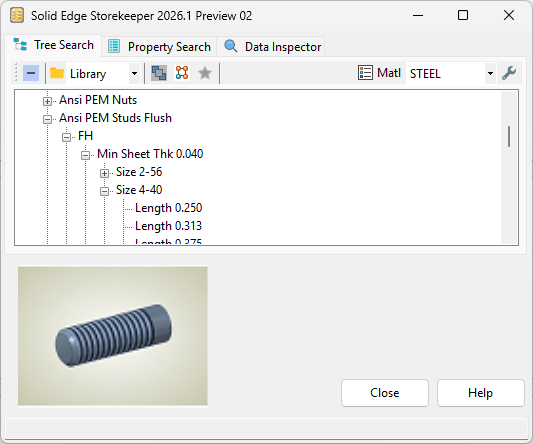
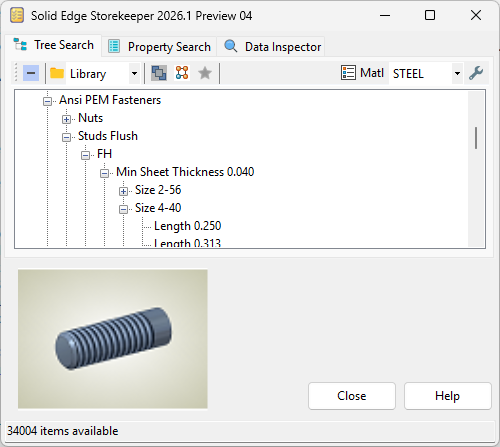
Documentation

diff --git a/Readme.md b/Readme.md
@@ -175,7 +175,7 @@ The spreadsheet contains the variables required for each size of each type of pa
 - **TEMPLATE DIRECTORY**  
 The templates are SE part files that have variable-table-driven geometry to create new parts of a given type.  By default they are stored in the `Preferences\TemplatesSE2024` folder.
 
-  As noted at the outset, the original templates were created in SE2024.  They will only work if you're using that version or newer.  An alternative set of templates, created with SE2019, was generously contributed by **@TeeVar**.  To use them, change the template directory to `Preferences\TemplatesSE2019`.  
+  As noted at the outset, the original templates were created in SE2024.  They will only work if you're using that version or newer.  (**UPDATE 20260607:** It is now SE2025.)  An alternative set of templates, created with SE2019, was generously contributed by **@TeeVar**.  To use them, change the template directory to `Preferences\TemplatesSE2019`.  
 
   Even if you have a newer version of Solid Edge, you may still want to use the SE2019 templates.  Unlike me, **@TeeVar** is an ISO native speaker.  If you work with that standard, his naming conventions will probably be more familiar and useful to you.
 
@@ -190,7 +190,9 @@ The material table is usually your normal SE material table.  However, for a qui
 
 - **OPTIONS**
   - `Read the Excel file each time the program is launched`  
-	Internally, the Excel file is parsed and saved in `*.xml` format.  If you haven't changed the Excel file, this is an unnecessary step.  Clearing this option tells the program to use the `*.xml` file it created previously.
+	Internally, the Excel file is parsed and saved in `*.xml` format.  If you haven't changed the Excel file, this is an unnecessary step.  Clearing this option tells the program to use the `*.xml` file it created previously.  
+
+	Note, if you get an error about "available data for encoding" on startup, try enabling this option.  
 	 
   - `Add any property not already in file`  
 	As mentioned above, besides creating geometry, the program can also update file properties.  Enabling this option tells the program to add any (custom) property not already in the file.
@@ -295,7 +297,7 @@ A fastener stack is a grouping that consists of a fastener and related component
 
 ### Configuration and Use
 
-To select the stack style, click the `Configuration` button.  There are eight versions that employ nuts, and four each for thru- and blind-tapped holes.  The lone configuration on the last row is exclusively for ASME Flange studs.
+To select the stack style, click the `Configuration` button.  There are eight versions that employ nuts, and four each for thru- and blind-tapped holes.  (The lone configuration on the last row is exclusively for ASME Flange studs.  See below for more details on that.)
 
 Note, you only choose the fastener.  The related components are automatically selected based on the fastener diameter and thread.
 
@@ -331,6 +333,24 @@ To get `Thread depth` on blind holes, one way is to change selection priority fr
   <img src="media/measure_thread_depth.png">
 </p>
 
+### ASME Flange Studs
+
+These are a bit different than other fasteners.  They are not chosen by dimensions, but rather according to the ASME B16.5 standard, by pressure rating and pipe size.  Also, you won't find them in the Ansi Fastener section of the tree.  They are under Ansi Piping.
+
+<p align="center">
+  <img src="media/asme_flange_tree.png">
+</p>
+
+As shown in the Configuration section above, they have their own stack configuration.  Storekeeper will do weird things if it is not the one selected.  To center the stud on the flange, the program uses the clamped thickness; so it's important to enter that value correctly.
+
+Also according to the standard, heavy hex nuts are used, not the usual variety.  That is handled automatically, but means those components must be available, which they are in the SE2024 dataset.
+
+One more thing about the studs.  As delivered, Storekeeper names the files like so: 
+
+`asme_b16.5_stud_%{Name}_%{Length}_%{MaterialFormula}.par`
+
+The `Length` variable is in inches.  In the companion spreadsheet `AsmeB16.5Fasteners.xls` there is a column, `mmLength`, with the equivalent in millimeters.  The values are rounded according to the standard (eg 2.250" -> 55mm).  You can use that one for naming if desired.
+
 ### Changing the Related Components
 
 In Storekeeper's `Preferences` directory, there are three files for each of the supplied datasets, `FlatWasher.json`,`LockWasher.json`, and `Nut.json`.  
@@ -340,7 +360,6 @@ Here are the default contents of `FlatWasherSE2024.json`.
 `["Solid_Edge_Storekeeper\\Ansi_Fasteners\\Washer_Flat","Solid_Edge_Storekeeper\\Iso_Fasteners\\Washer_Flat"]`
 
 As you may recognize, it is a comma-delimited list in `JSON` format.  You can edit the files in Notepad to point to the desired node(s) in the `*.xml` tree.
-
 
 ## PRE-POPULATING THE LIBRARY
 
@@ -498,7 +517,7 @@ As mentioned previously, formulas can contain entries such as `%{Name}` and `%{M
 
 In this example, we are also updating the description property.  That isn't necessary for the program to function.  It just illustrates how to update Solid Edge file properties.  Any property in the file can be updated in this way.  
 
-One more thing about this example.  Note there is a tooltip being specified.  If you want one, it needs to be on the first line after a `Node` definition.  There is a fix coming for that restriction, but it's not in there now.
+One more thing about this example.  You'll notice there is a tooltip being specified.  That has nothing to do with a standard part *per se*; it is just a UI element.  It is not necessary, but can be handy for users in certain cases like this one, where an abbreviation is used.
 
 ## OPEN SOURCE PACKAGES
 

diff --git a/release_notes.md b/release_notes.md
@@ -29,10 +29,11 @@ The new dataset covers six common raised-flange types (butt-weld, threaded, etc.
   <img src="media/asme_flange_stud.png">
 </p>
 
-The dataset also includes the related fastening studs.  For those, you select the pipe size and the system finds the correct stud.  They are compatible with Storekeeper's Fastener Stack and Auto-Patterning features.
+The dataset also includes the related fastening studs.  For those, you select the pipe size and the system finds the correct stud automatically.  They are compatible with Storekeeper's Fastener Stack and Auto-Patterning features.
 
 If you work with these components, this is going to save you a *ton* of time!
 
+See the [<ins>**ASME Flange Studs**</ins>](https://github.com/rmcanany/SolidEdgeStorekeeper#asme-flange-studs) section of the Readme for details.
 
 ### Updated ISO Data and Templates
 
@@ -75,9 +76,10 @@ See the [<ins>**Creating New Templates Help Topic**</ins>](https://github.com/rm
 - Fixed an issue in `Property Search` where the `Replace Selected/All` function was adding parts instead of replacing them (Thank you **@TeeVar**!)
 - Fixed a regression where character encoding in non-US locales caused a runtime exception at startup (Thank you again **@TeeVar**!)
 - Fixed an issue where the `Property Cache` was not properly updating if a file change was detected (Thank you one more time **@TeeVar**!)
-- Updated to the most recent OpenMcdf version
+- Updated to the most recent version of OpenMcdf
 - Fixed an issue where users running preview code were not notified when the finalized version was released.
-- Changed how fastener stack related-component tree locations are specified.  Now, the full path is used (eg. `Solid_Edge_Storekeeper\Ansi_Fasteners\Washer_Flat`).  Previously it was a relative path (eg. `..\..\Washer_Flat`).
+- Changed how fastener stack related-component tree locations are specified.  Now, the full path is used (eg. `Solid_Edge_Storekeeper\Ansi_Fasteners\Washer_Flat`).  Previously it was a path relative to the chosen fastener.
+- Fixed an issue where a TooltipFormula, when used, had to be the first element in the XML node definition.  Now it can be anywhere within the scope of the node.
 
 
 ## V2025.4
